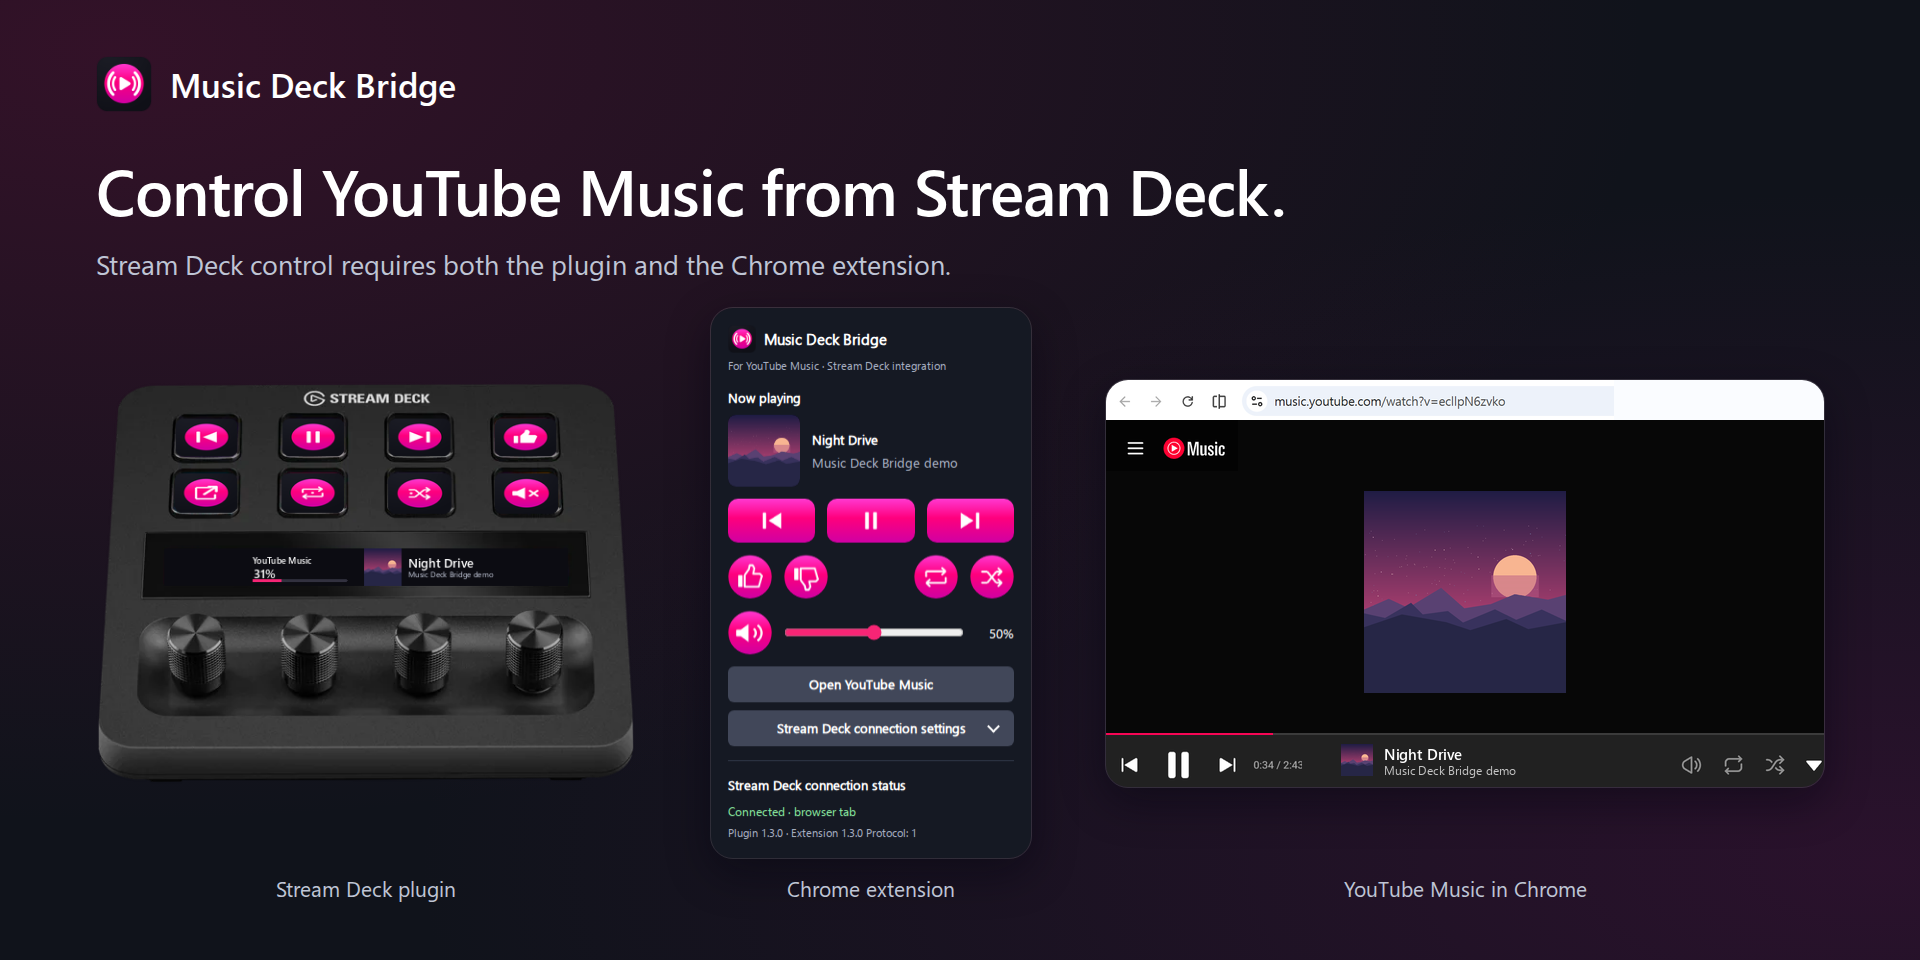
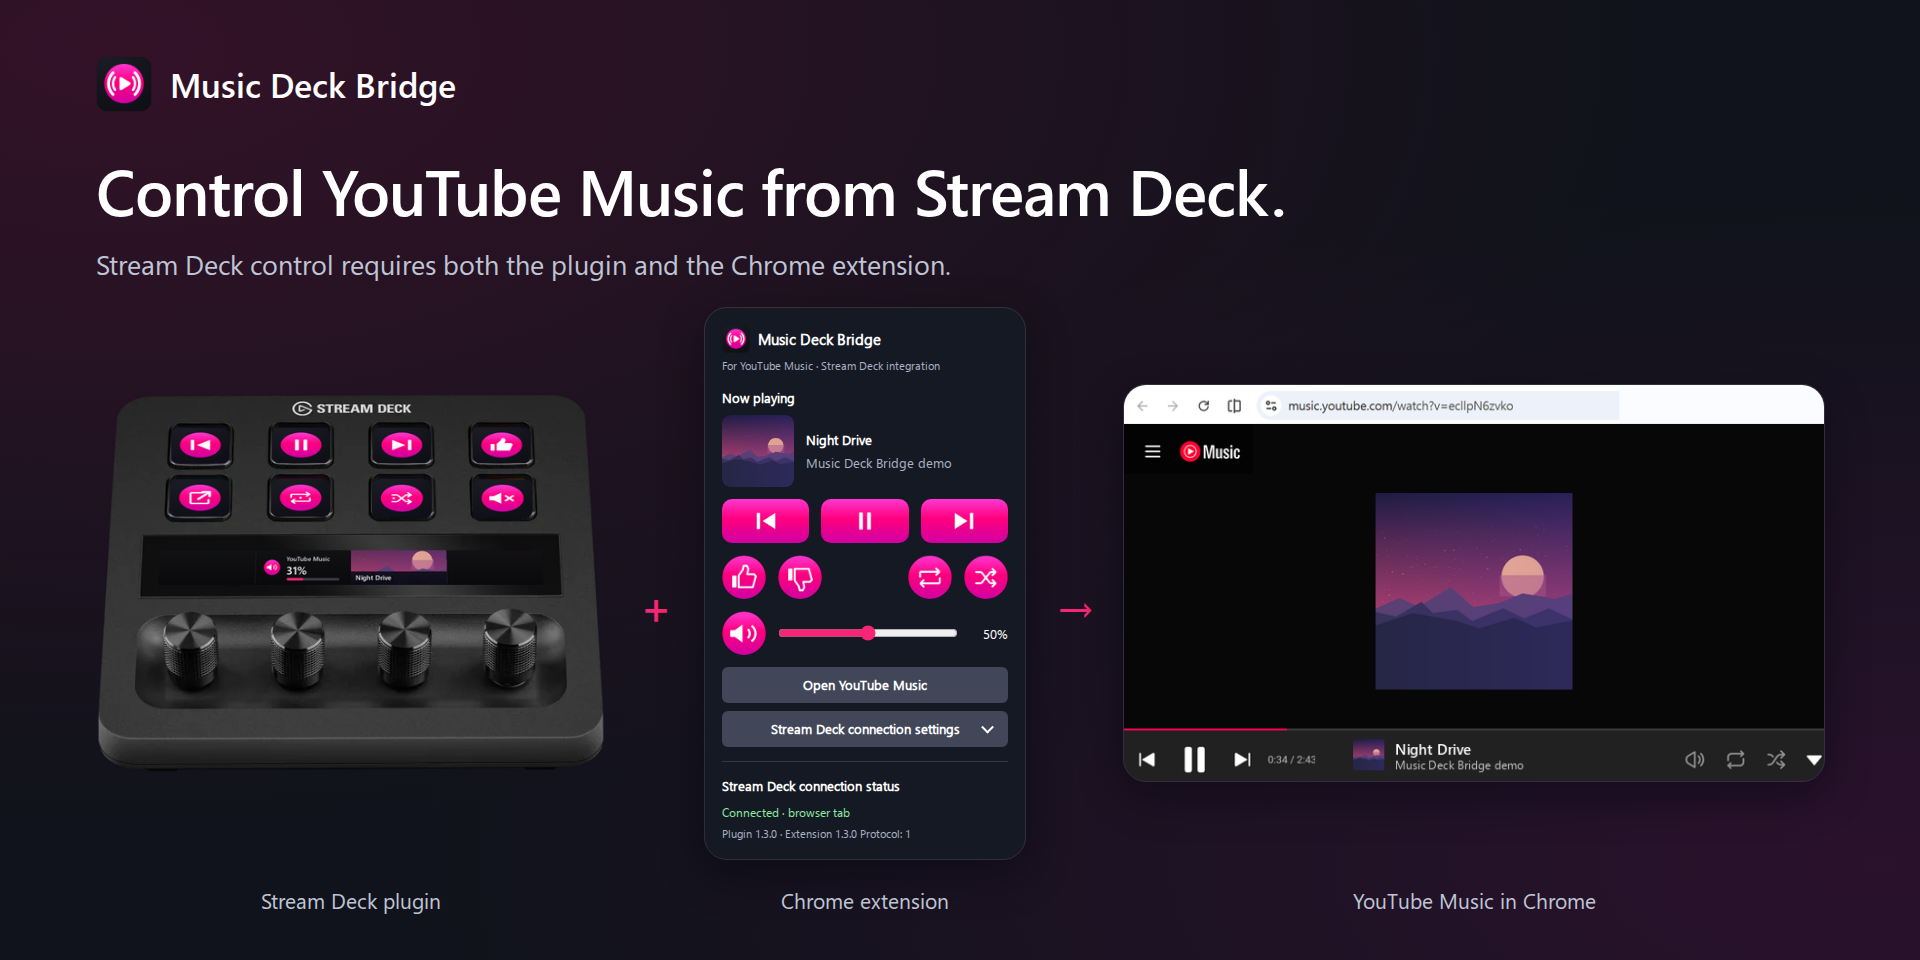
docs: update gallery layouts and add pairing walkthrough

diff --git a/docs/release-readiness.md b/docs/release-readiness.md
@@ -24,7 +24,7 @@ The [runtime record](verification/runtime.md#current-evidence) is the source for
 | Area | Current evidence | Remaining limit |
 | --- | --- | --- |
 | November 28 Windows native and mixed-version checks, `394b941` | Live Chrome tab and installed app cycled Repeat and Shuffle through the paired bridge. The plugin saved the closed app's last track, artwork and playback settings. Both mixed upgrades from 1.2.0 retained pairing, port and popup playback. [Windows record](verification/runtime.md#november-28-native-youtube-music-controls) | Account sign-in, imported paused selection on the live site, physical output/input, PC reboot and Marketplace-processed installer require separate verification. |
-| November 28 isolated 1.3.0 package rehearsal, `394b941` product code | A temporary source copy passed stable version/tag-format verification, static checks, 336 Node tests, official Elgato validation and both package checksums. The locked npm audit reported zero vulnerabilities. [Store submission drafts](../store-assets/drafts/v1.3.0/README.md) include Chrome copy for eight locales, English Elgato copy and What's new, two localized Chrome screenshots and four Elgato gallery images. | Official promotion, exact tagged-source Windows/Ubuntu CI, final media selection, Maker Console processing and store submission remain pending. |
+| November 28 isolated 1.3.0 package rehearsal, `394b941` product code | A temporary source copy passed stable version/tag-format verification, static checks, 336 Node tests, official Elgato validation and both package checksums. The locked npm audit reported zero vulnerabilities. [Store submission drafts](../store-assets/drafts/v1.3.0/README.md) include Chrome copy for eight locales, English Elgato copy and What's new, two localized Chrome screenshots and five Elgato gallery images. | Official promotion, exact tagged-source Windows/Ubuntu CI, final media selection, Maker Console processing and store submission remain pending. |
 | November 27 Windows mixed-version upgrade, `a512a7f` | Both `1.2.0` / `1.3.0-dev` combinations retained pairing and the saved port. Toolbar Play/Pause worked in both, and the new popup used Chrome-local Repeat and Shuffle with the old plugin. [Mixed-version record](verification/runtime.md#november-27-windows-mixed-version-upgrade) | Packaged software used a local player model. Physical Stream Deck profile migration and Maker Console processing require separate verification. |
 | November 27 Windows installed-app priority, `a512a7f` | The paired bridge preferred the paused YouTube Music app over a playing tab and returned to the tab when the app closed. Local checks passed 316 Node tests, two Python packaging tests, static checks and three Chromium fixtures. [App record](verification/runtime.md#november-27-windows-installed-app-priority) | Sign-in state, physical output and input, restoration after PC reboot and Maker Console processing remain open. |
 | November 27 Windows and YouTube Music, `e633272` | The installed build passed live Repeat, Shuffle and artwork checks. The Stream Deck + preview restored saved artwork after restart with Chrome fully closed, and the existing pair reconnected after Chrome reopened. The local run passed 315 Node tests, two Python packaging tests, static checks and three Chromium fixtures. [Runtime record](verification/runtime.md#november-27-windows-and-youtube-music) | This run reported the installed app as a browser tab. The follow-up above covers app selection. |

diff --git a/docs/verification/media.md b/docs/verification/media.md
@@ -39,9 +39,9 @@ Separately, on Windows Stream Deck 7.6.1.23033 with build `394b941`, the existin
 
 ## November 28 revised 1.3.0 Elgato gallery
 
-The [four revised gallery drafts](../../store-assets/drafts/v1.3.0/README.md) use the layout, background colors and typography of the [published Marketplace gallery](https://marketplace.elgato.com/product/music-deck-bridge-044e81d9-9671-4277-bcb9-ce8b6d38c3fd). The Stream Deck MK.2 and Stream Deck + product images come from [Elgato's device guide](https://www.elgato.com/us/en/explorer/products/stream-deck/which-stream-deck-should-you-get/). Packaged action icons and a newly drawn sample cover were composited onto the key displays. The linked example shows eight distinct crops of the same cover across the Stream Deck + keys.
+The [five revised gallery drafts](../../store-assets/drafts/v1.3.0/README.md) use the layout, background colors and typography of the [published Marketplace gallery](https://marketplace.elgato.com/product/music-deck-bridge-044e81d9-9671-4277-bcb9-ce8b6d38c3fd). The Stream Deck MK.2, Stream Deck + and Stream Deck XL product images come from [Elgato's device guide](https://www.elgato.com/us/en/explorer/products/stream-deck/which-stream-deck-should-you-get/). Packaged action icons and an original sample cover were composited onto the key displays. The Stream Deck + touch-strip composite follows the LCD perspective and places the controls over their respective physical dials. The linked artwork example uses distinct crops of the original cover across all 15 MK.2 and 32 XL keys.
 
-The two Chrome popup panels were captured from the bundle's English UI with sample playback in paired and standalone modes. The YouTube Music panel uses cropped Chrome and YouTube Music UI from a designated Windows playback window with the same original cover and sample title composited into it. Account controls, bookmarks and the original album cover were kept outside the export. The four English RGB PNGs were checked at 1920 × 960 and visually reviewed against the published design.
+The two playback popup panels were captured from the bundle's English UI with sample playback in paired and standalone modes. The connection slide captures the bundled property inspector and popup settings using sample PIN `123456` and default port `17864`. The YouTube Music panel uses cropped Chrome and YouTube Music UI from a designated Windows playback window with the same original cover and sample title composited into it. Account controls, bookmarks and the original album cover were kept outside the export. The five English RGB PNGs were checked at 1920 × 960 and visually reviewed against the published design.
 
 ## Development key backgrounds
 

diff --git a/store-assets/drafts/v1.3.0/README.md b/store-assets/drafts/v1.3.0/README.md
@@ -19,10 +19,11 @@ Chrome 이미지 두 장은 `394b941`과 동일한 제품 소스의 임시 1.3.0
 
 Elgato 갤러리 초안은 모두 영어 1920 × 960 PNG입니다. 공개 갤러리의 배경과 제목 스타일을 따르고, Elgato 제품 이미지에 실제 플러그인 아이콘과 예시 앨범 이미지를 합성했습니다. 제품 아이콘은 [기존 288 × 288 PNG](../../elgato/listing/app-icon-288.png)를 사용합니다. [Elgato 갤러리 기준](https://docs.elgato.com/guidelines/products/#gallery) · [이미지 출처 및 검증](../../../docs/verification/media.md#november-28-revised-130-elgato-gallery)
 
-1. [제품 소개](elgato-gallery-01-overview-1920x960.png) — Stream Deck 플러그인, Chrome 확장 프로그램, YouTube Music 브라우저 예시. Stream Deck 제어에는 두 구성요소가 모두 필요합니다.
-2. [Stream Deck 키 기능](elgato-gallery-02-controls-1920x960.png) — MK.2의 재생, 반복·셔플, 볼륨·평가 매핑 예시.
-3. [Chrome 단독 제어](elgato-gallery-03-chrome-1920x960.png) — 확장 프로그램만으로 음악을 조작하는 팝업 예시.
-4. [연결 앨범 이미지](elgato-gallery-04-linked-artwork-1920x960.png) — Stream Deck +의 여덟 키 전체에 한 앨범 이미지를 연결한 예시.
+1. [제품 소개](elgato-gallery-01-overview-1920x960.png) — Stream Deck 플러그인과 Chrome 확장 프로그램을 `+`로 묶고 `→`로 YouTube Music과 연결합니다.
+2. [Stream Deck 키 기능](elgato-gallery-02-controls-1920x960.png) — MK.2와 Stream Deck +의 재생, 반복·셔플, 볼륨·평가 매핑 예시.
+3. [연결 방법](elgato-gallery-03-connection-1920x960.png) — Stream Deck의 Chrome 연결·로컬 서버 포트, Chrome 확장의 연결 설정, YouTube Music 브라우저를 순서대로 보여줍니다. 두 설정 화면에는 동일한 예시 PIN과 포트를 표시합니다.
+4. [Chrome 단독 제어](elgato-gallery-04-chrome-1920x960.png) — 확장 팝업과 YouTube Music 브라우저를 함께 보여줍니다.
+5. [연결 앨범 이미지](elgato-gallery-05-linked-artwork-1920x960.png) — MK.2의 15개 키와 XL의 32개 키에 각각 하나의 앨범 이미지를 연결한 예시.
 
 Chrome의 권한 및 호스트 범위는 1.2.0과 동일합니다. 개인정보 양식은 이번 버전이 마지막 곡 한 개와 플레이어 상태를 로컬에 보존하고 Google·YouTube 이미지 서버에서 앨범 이미지를 가져오는 동작을 반영해야 합니다. [개인정보 처리방침](../../../PRIVACY.md)
 

diff --git a/store-assets/elgato/README.md b/store-assets/elgato/README.md
@@ -4,7 +4,7 @@ Use this guide to select Marketplace upload files and regenerate exports. See th
 
 See the [store record](../../docs/verification/stores.md#november-27-publication-verification) for the published 1.2 listing. The [1.2.0 reference drafts](../drafts/v1.2.0/README.md) include the English description, seven reference translations, release notes and UTM links. The [October 29 How to Use draft](how-to-use.en.md) documents an earlier revision. Capture the current UI for future popup exports.
 
-The [1.3.0 submission drafts](../drafts/v1.3.0/README.md) list the four new gallery images in order, along with the description and What's new copy.
+The [1.3.0 submission drafts](../drafts/v1.3.0/README.md) list the five new gallery images in order, along with the description and What's new copy.
 
 ## Upload files
 

diff --git a/store-assets/README.md b/store-assets/README.md
@@ -12,7 +12,7 @@ Start with the store-specific upload guide below. These guides cover future subm
 
 ## 1.3.0 submission drafts
 
-The [1.3.0 draft index](drafts/v1.3.0/README.md) links to eight Chrome descriptions, two localized Chrome screenshots with sample data, the English Elgato description and separate What's new copy, and four Marketplace gallery drafts.
+The [1.3.0 draft index](drafts/v1.3.0/README.md) links to eight Chrome descriptions, two localized Chrome screenshots with sample data, the English Elgato description and separate What's new copy, and five Marketplace gallery drafts.
 
 ## 1.2.0 listing reference
 
